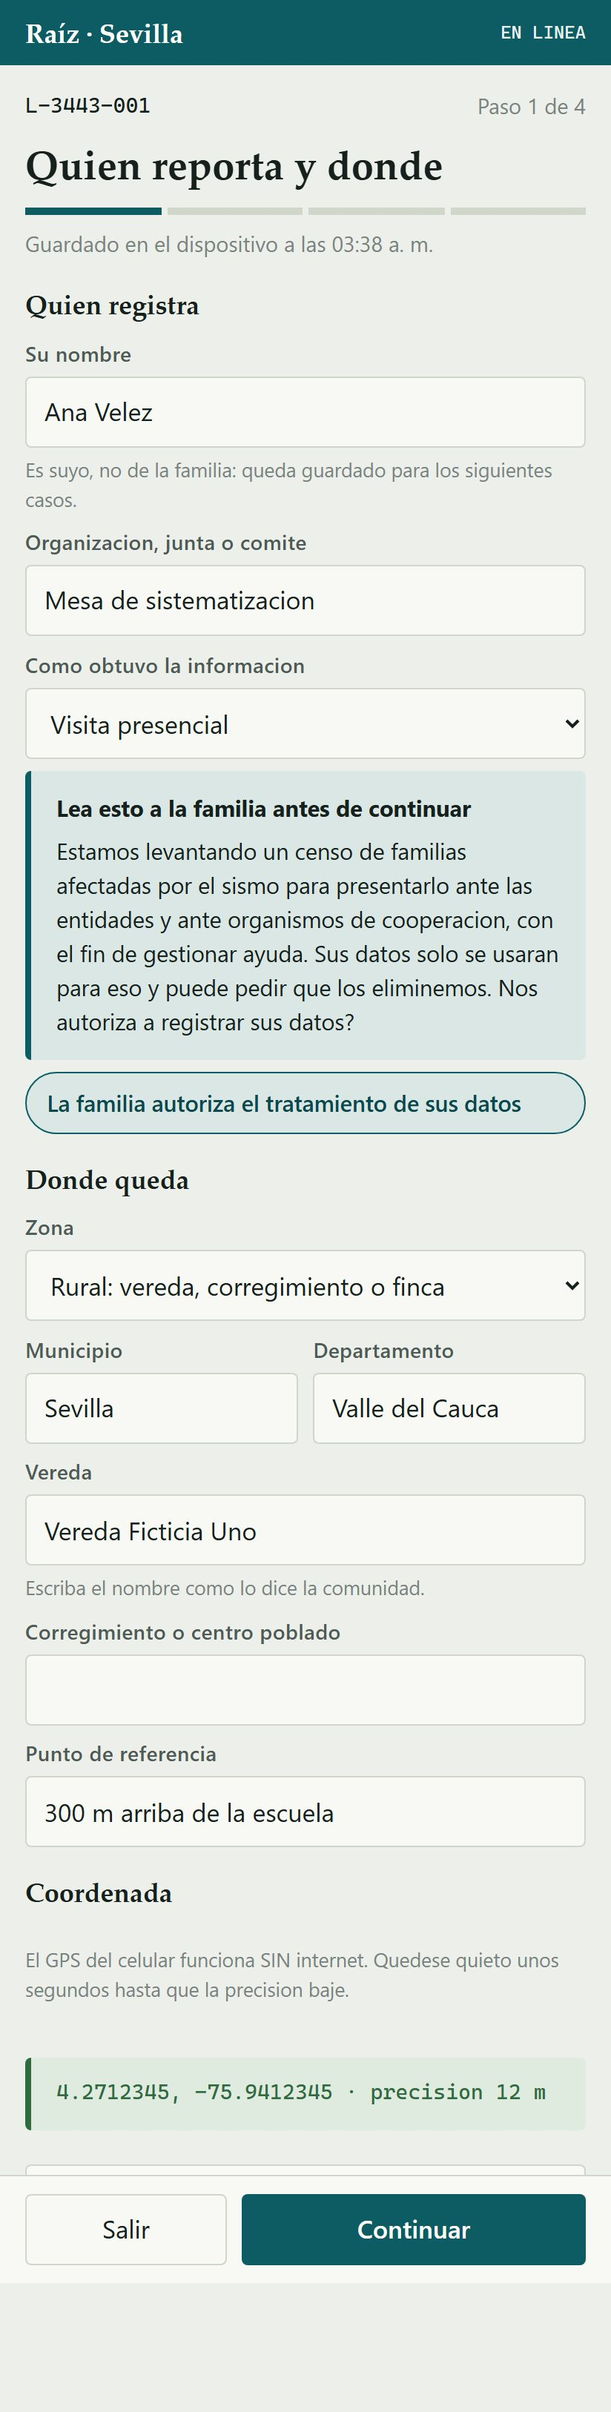
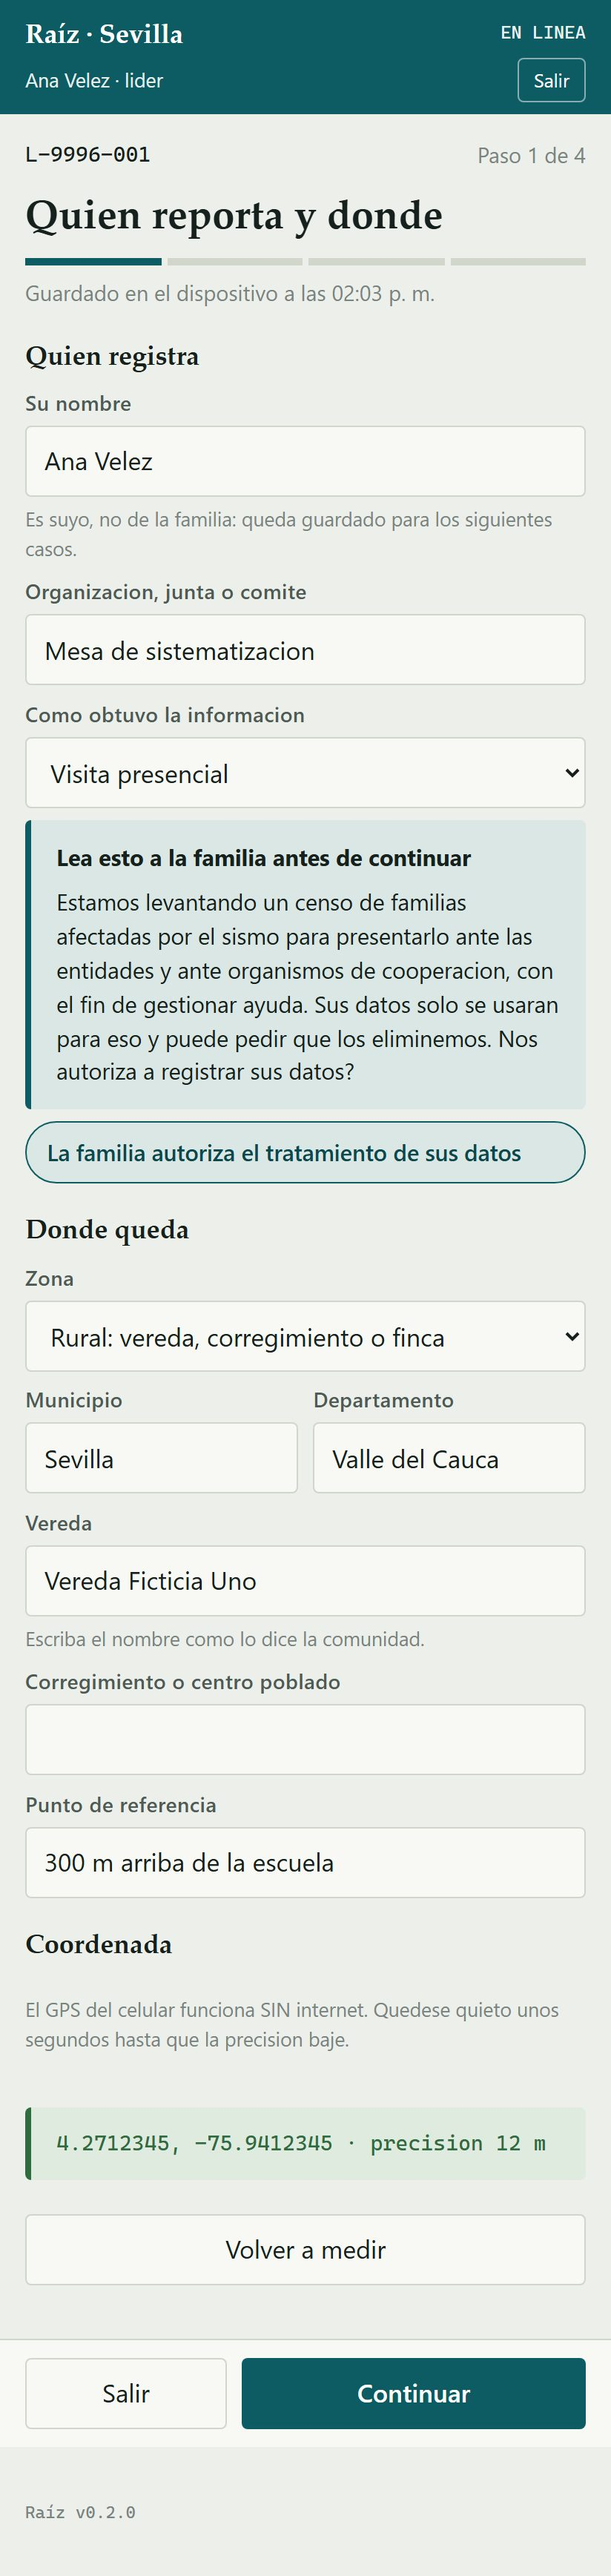
Versionar el producto entero, y que el servidor tambien diga cual es
Habia numero de version, pero solo en la aplicacion del celular y sin nada que lo
mantuviera junto con el resto. Tres paquetes decian 0.1.0 por coincidencia.

UN SOLO NUMERO. Raiz se entrega como una sola cosa: la aplicacion, la API y el
contrato compartido salen juntos y solo tienen sentido juntos. Numerarlos por separado
obligaria a recordar que 0.4.0 del front habla con 0.2.1 de la API, y esa cuenta nadie
la lleva bien un martes ocupado. El dia que haya varias versiones en campo a la vez
—que va a pasar— se separan; hoy seria complejidad sin problema que resolver.

LA API AHORA RESPONDE SU VERSION en /salud, que es ruta abierta a proposito: si
exigiera sesion no serviria justo cuando algo no deja entrar a nadie. El pie de la
aplicacion ya decia que version tiene el celular; esta es la otra mitad, contra que
version del servidor esta hablando. Con las dos, un reporte de campo se ubica en un
minuto.

tools/versionar.mjs sube el numero en los tres paquetes y regenera los dos archivos
estampados. NO hace commit ni etiqueta: eso lo decide quien esta mirando.

docs/VERSIONES.md queda escrito para la mesa y no para quien programa: que puede hacer
la herramienta que ayer no podia, y que todavia no. El detalle tecnico ya vive en el
historial.

Se marca 0.2.0, que es lo que hay publicado: la version en la que Raiz dejo de vivir
solo en los computadores del equipo.

Verificado: compilan los dos, /salud responde la version, y la prueba de campo pasa
[…]

Changed region(s): [[0.0, 0.0, 1.0, 0.9622], [0.9102, 0.4345, 0.9709, 0.4656], [0.4248, 0.7139, 0.4551, 0.7449]]

diff --git a/api/src/entrada/salud.controller.ts b/api/src/entrada/salud.controller.ts
@@ -1,11 +1,23 @@
 import { Controller, Get, Inject } from '@nestjs/common';
 import { SALUD, SaludPort } from '../dominio/puertos';
+import { VERSION } from '../version';
 import { RutaAbierta } from './ruta-abierta.decorador';
 
 /** Respuesta de disponibilidad. La consulta el dispositivo antes de vaciar la cola. */
 interface EstadoServicio {
   disponible: boolean;
   base: 'responde' | 'no responde';
+  /**
+   * Version del servicio que esta respondiendo.
+   *
+   * El pie de la aplicacion ya dice que version tiene el celular. Esta es la otra
+   * mitad: contra que version del servidor esta hablando. Con las dos, cuando un
+   * lider llame a decir que algo no le sirve, el problema se ubica en un minuto.
+   *
+   * Va en la ruta abierta a proposito: si hiciera falta sesion para consultarla, no
+   * serviria justo cuando algo no deja entrar a nadie.
+   */
+  version: string;
 }
 
 @Controller('salud')
@@ -23,6 +35,10 @@ export class SaludController {
   @Get()
   async consultar(): Promise<EstadoServicio> {
     const alcanzable = await this.salud.baseAlcanzable();
-    return { disponible: alcanzable, base: alcanzable ? 'responde' : 'no responde' };
+    return {
+      disponible: alcanzable,
+      base: alcanzable ? 'responde' : 'no responde',
+      version: VERSION
+    };
   }
 }

diff --git a/api/src/version.ts b/api/src/version.ts
@@ -1,3 +1,3 @@
 // GENERADO por tools/estampar-version.mjs. No editar a mano.
-// La fuente es la version de frontend/package.json; para cambiarla, cambiela ahi.
+// La fuente es la version de api/package.json; para cambiarla, cambiela ahi.
 export const VERSION = '0.2.0';

diff --git a/docs/VERSIONES.md b/docs/VERSIONES.md
@@ -1,0 +1,47 @@
+# Raíz — qué cambió en cada versión
+
+Este archivo es para la mesa, no para quien programa. Dice qué puede hacer la
+herramienta que ayer no podía, en el idioma en que se le explica a un líder o a una
+entidad. El detalle técnico está en el historial del repositorio.
+
+La versión se ve en el pie de la aplicación y también la responde el servidor. Cuando
+alguien reporte un problema, esos dos números son lo primero que hay que preguntar:
+un celular puede quedarse con una versión vieja durante días.
+
+Se numera `mayor.menor.parche`, y hoy todo sale junto: la aplicación del celular, el
+servidor y el contrato que comparten llevan siempre el mismo número.
+
+---
+
+## 0.2.0 — 15 de agosto de 2026
+
+**La herramienta dejó de vivir solo en los computadores del equipo.** La aplicación
+está publicada y el servidor existe, así que por primera vez un caso capturado en una
+vereda puede llegar a una base central.
+
+- Un líder entra con su correo y su clave, y captura sin señal. La sesión se pide una
+  sola vez: después se trabaja sin conexión y se sincroniza al bajar.
+- Las cuentas las crea la coordinación. No hay registro abierto, y es a propósito: lo
+  que se escribe con esa cuenta es el padrón de familias damnificadas.
+- El caso viaja solo al recuperar señal; las fotografías esperan una decisión, porque
+  pesan sesenta veces más y los datos los paga el voluntario.
+- Si se cae la señal a mitad de un envío, el reintento actualiza la misma familia en
+  vez de duplicarla. El total consolidado es lo que sustenta cada petición ante una
+  entidad, y un duplicado silencioso lo arruina.
+- Sin autorización de la familia, la identidad no se guarda: ni nombre, ni apellidos,
+  ni documento. Ahora lo rechaza también la base, no solo la aplicación.
+- El formulario distingue "no se puede vivir ahí" de "nadie preguntó", avisa cuando el
+  daño y la habitabilidad se contradicen, y ofrece registrar a la siguiente familia de
+  la misma casa sin volver a tomar la ubicación.
+
+**Lo que todavía no:** nadie la ha usado en la vereda con señal intermitente, quien
+crea una cuenta conoce la clave de esa persona, y siguen abiertas tres decisiones de
+tratamiento de datos que no son técnicas.
+
+---
+
+## 0.1.0 — 13 de agosto de 2026
+
+La primera versión que se podía mostrar. Captura sin conexión en el celular, guardado
+en el dispositivo, fotografías comprimidas y coordenada por satélite. Todo vivía en el
+teléfono: no había servidor al que mandar nada.
